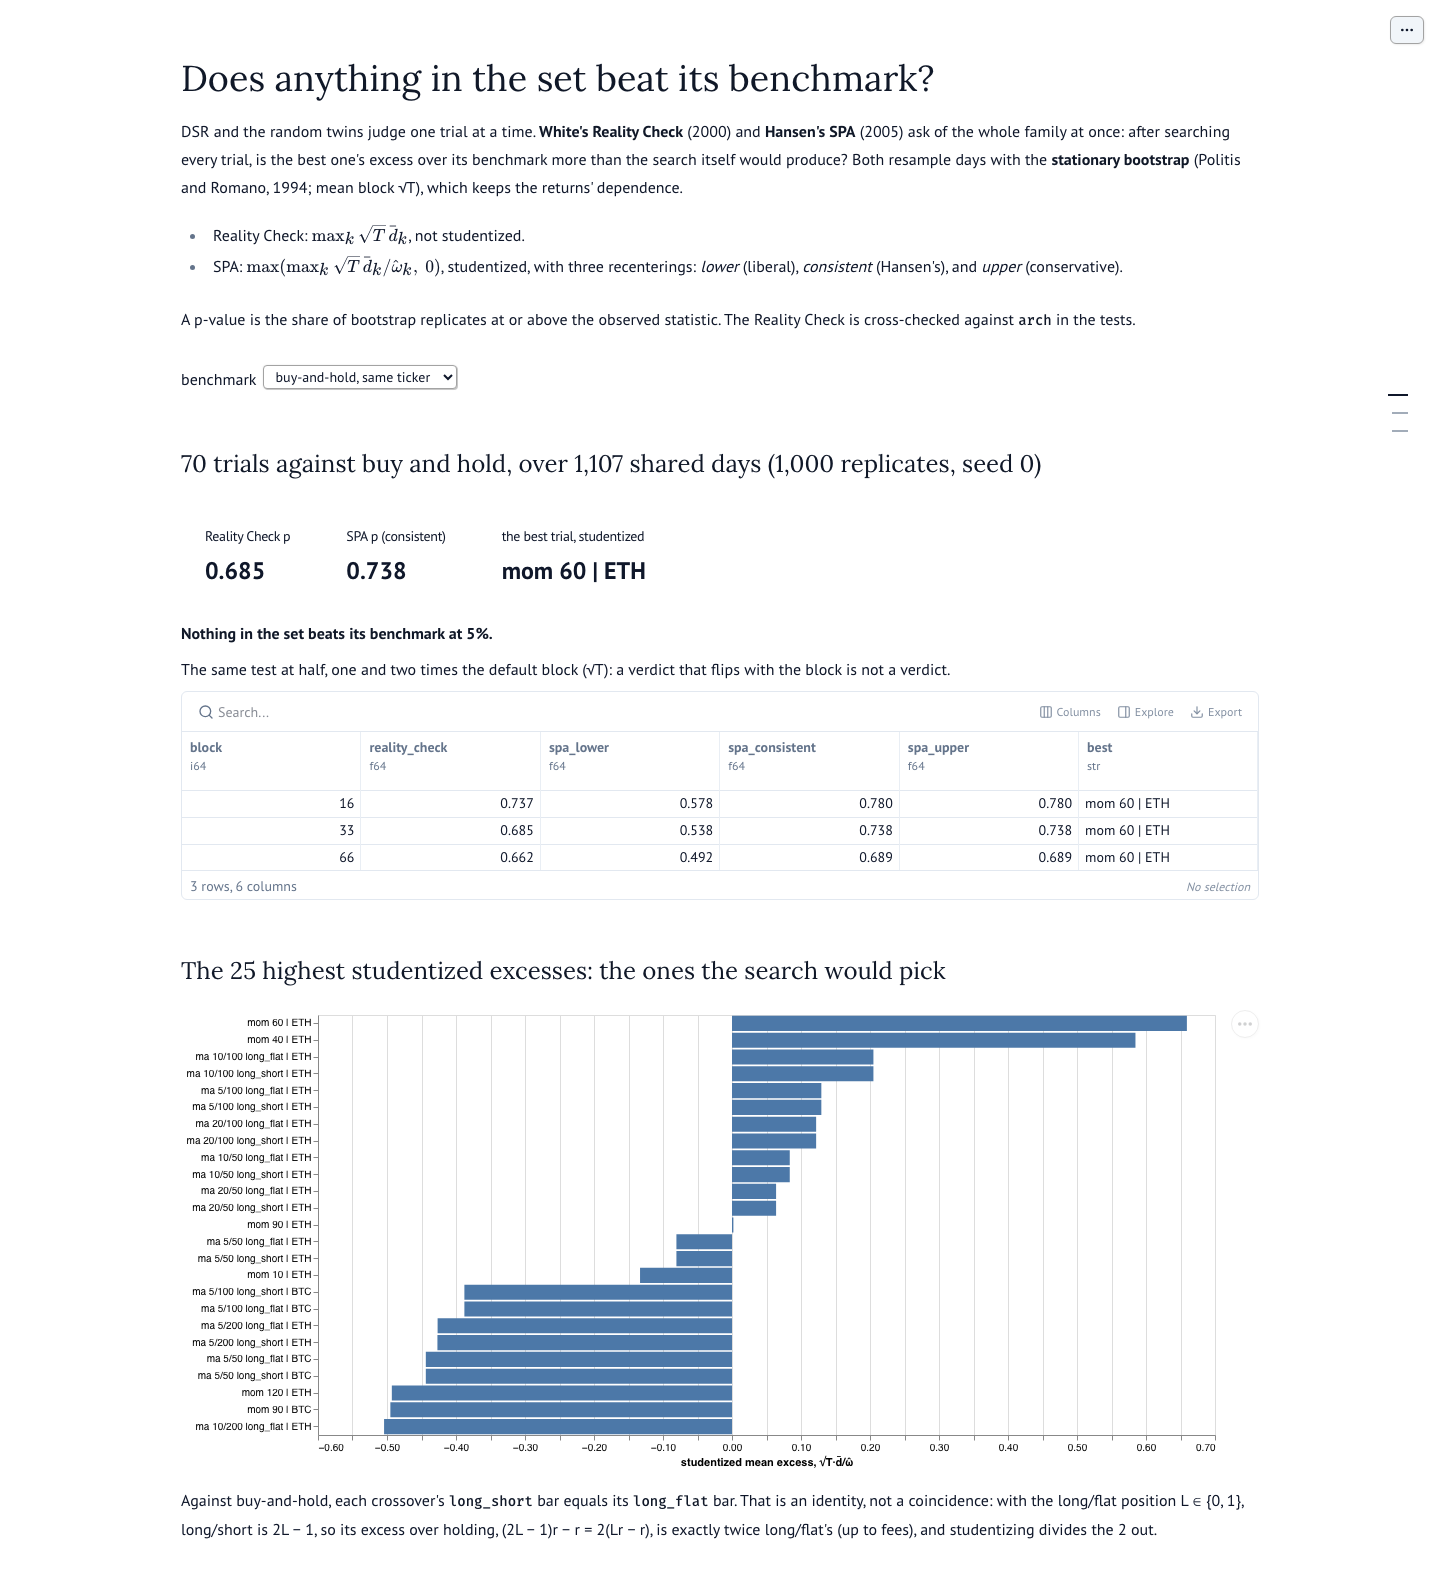
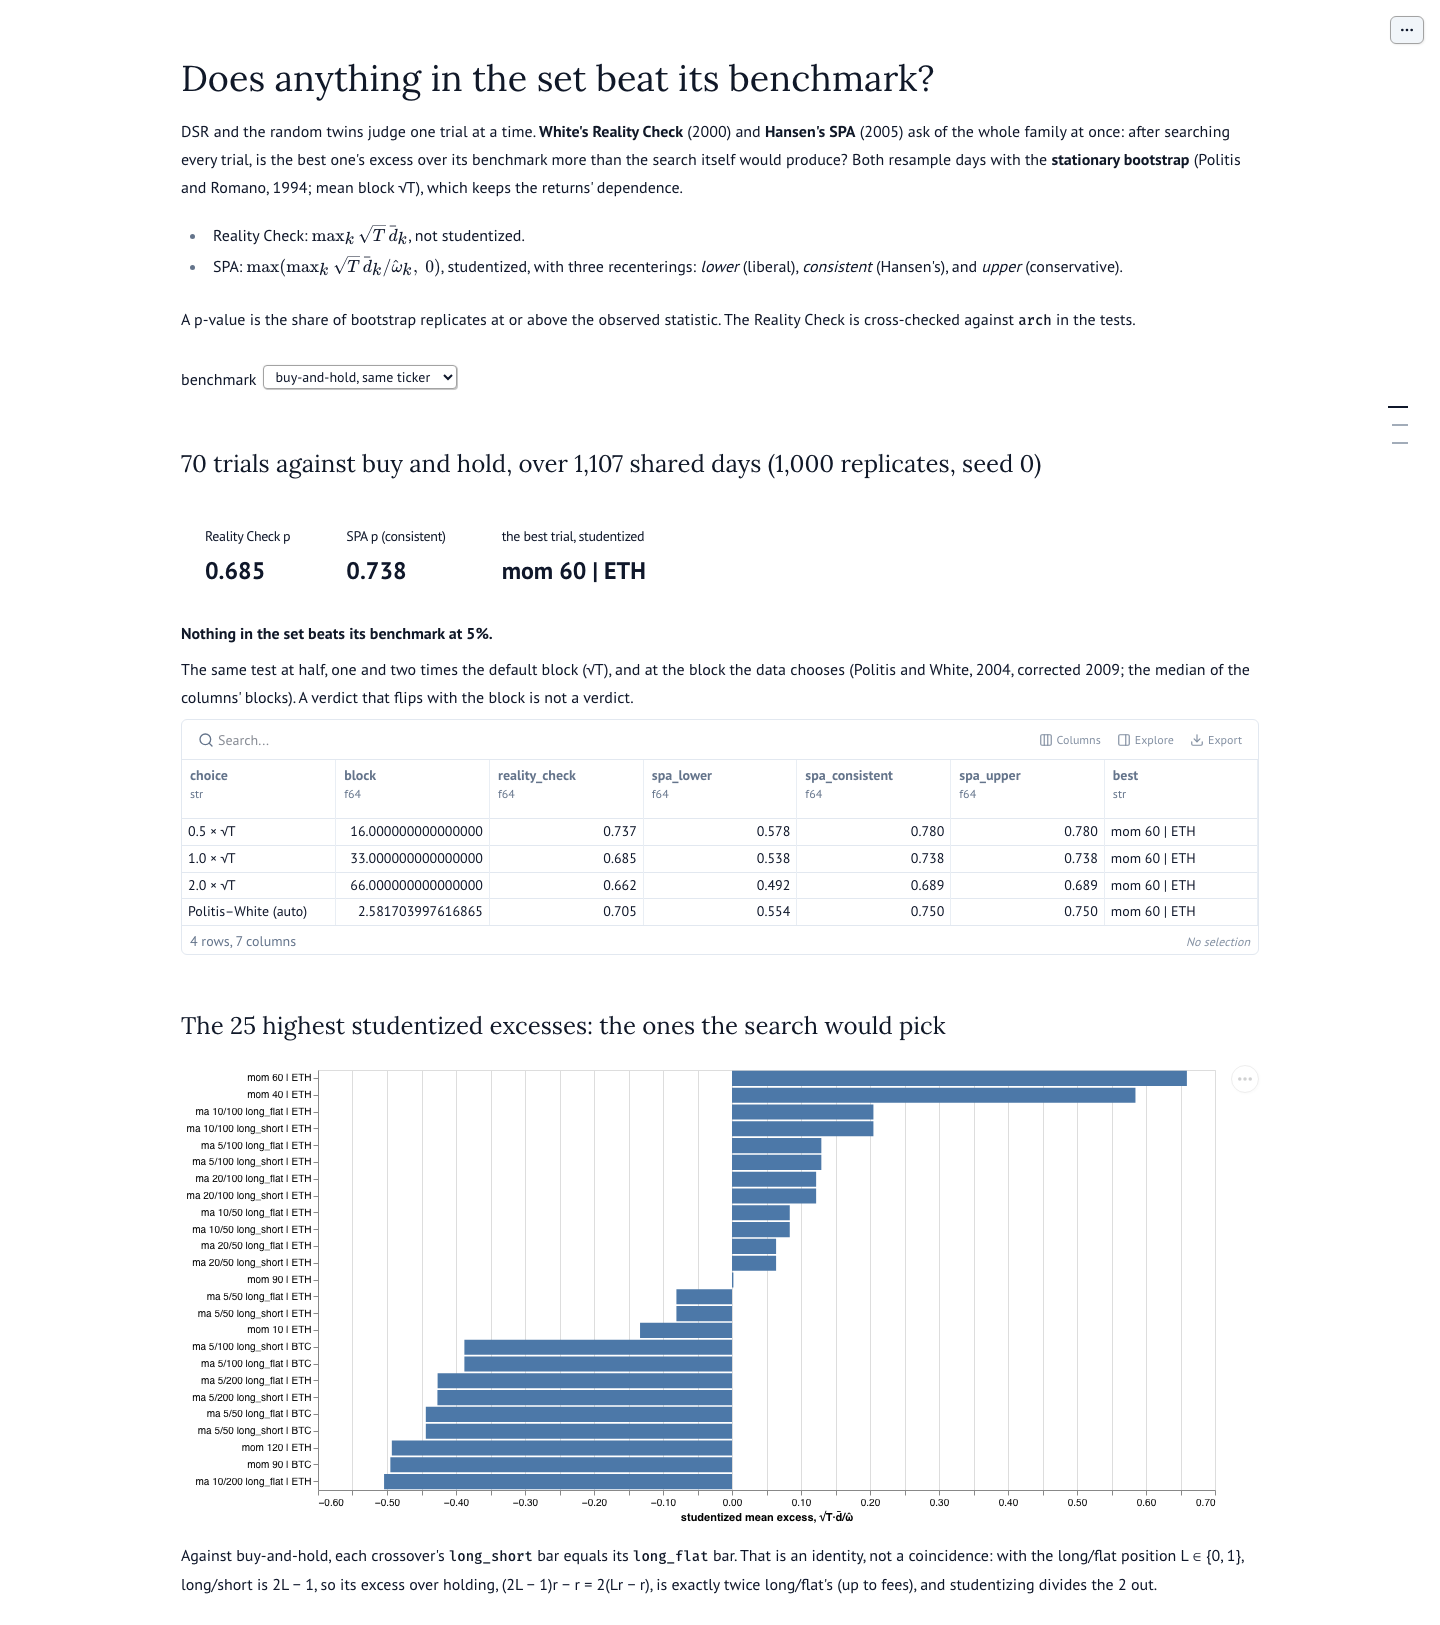
the bootstrap block is chosen from the data: Politis and White, as corrected
stats.optimal_block estimates the stationary bootstrap's mean block from
the series' own autocorrelation. It is Politis and White (2004), with
Patton, Politis and White's (2009) corrected constants, written step for
step from arch 8.0.0's optimal_block_length and cross-checked against it
to within 1e-6 on three AR(1) series. reality_check(block="auto") uses
the median of the columns' blocks. The default stays sqrt(T), so earlier
results reproduce.

On the record, the automatic block is short: 2.6 days against
buy-and-hold and 1.5 against cash, because daily excess returns are
close to white noise, and sqrt(T) = 33 was far longer than needed. The
verdict does not move: RC p = 0.71 and 0.27, SPA p = 0.75 and 0.22.
notebooks/whole_set.py adds the automatic row, and its screenshot is
refreshed.

180 tests pass. A plain lag window gives a block of 18.0 and breaks the
agreement with arch.

diff --git a/src/galata_research/stats.py b/src/galata_research/stats.py
@@ -207,7 +207,7 @@ def stationary_bootstrap_indices(n: int, block: float, rng) -> list[int]:
     return out
 
 
-def reality_check(excess: pl.DataFrame, *, reps: int = 1000, block: float | None = None, seed: int = 0) -> dict:
+def reality_check(excess: pl.DataFrame, *, reps: int = 1000, block: float | str | None = None, seed: int = 0) -> dict:
     """White's Reality Check (2000) and Hansen's SPA (2005): does any column beat its benchmark?
 
     `excess` is T × K per-period returns minus each column's benchmark
@@ -220,7 +220,8 @@ def reality_check(excess: pl.DataFrame, *, reps: int = 1000, block: float | None
       −√(ω̂²/T · 2 log log T), else 0) or `upper` (d̄). Then
       p_lower ≤ p_consistent ≤ p_upper.
     ω̂² is the stationary-bootstrap variance of √T d̄ (Politis and Romano),
-    as in arch. `block` defaults to √T, as in arch. p-values count
+    as in arch. `block` defaults to √T, as in arch; `"auto"` takes the median
+    of the columns' Politis–White blocks (`optimal_block`). p-values count
     replicates at or above the statistic.
     """
     import random
@@ -237,6 +238,10 @@ def reality_check(excess: pl.DataFrame, *, reps: int = 1000, block: float | None
     if t < 10:
         raise Refused(f"{t} rows are too few to bootstrap")
     frame = frame.select(pl.all().cast(pl.Float64))
+    if block == "auto":
+        # One block for every column: the median of their own optimal blocks.
+        blocks = sorted(optimal_block(frame[c]) for c in columns)
+        block = max(1.0, blocks[len(blocks) // 2])
     block = block if block is not None else int(sqrt(t))
     means = frame.mean().row(0)
 
@@ -285,3 +290,52 @@ def reality_check(excess: pl.DataFrame, *, reps: int = 1000, block: float | None
         "seed": seed,
         "rows": t,
     }
+
+
+def optimal_block(series) -> float:
+    """Politis and White's (2004) optimal mean block for the stationary bootstrap, as corrected in 2009.
+
+    Patton, Politis and White (2009) corrected the constants after Nordman
+    (2008). This follows arch 8.0.0's `optimal_block_length` (its
+    `stationary` column) step for step:
+    - find m̂, the first run of `max(5, ⌊log₁₀ n⌋)` autocorrelations under
+      `2√(log₁₀ n / n)`, and set `M = 2m̂`;
+    - with a flat-top lag window, take `Ĝ = Σ 2λ(k/M)·k·γ̂(k)` and the
+      long-run variance `ĝ = γ̂(0) + Σ 2λ(k/M)·γ̂(k)`;
+    - `b = (2Ĝ² / (2ĝ²))^{1/3} n^{1/3}`, capped at `min(3√n, n/3)`.
+    """
+    from math import ceil, log10
+
+    x = _series(series).to_list()
+    n = len(x)
+    if n < 10:
+        raise Refused(f"{n} points are too few to choose a block")
+    mean = sum(x) / n
+    eps = [v - mean for v in x]
+    b_max = ceil(min(3 * sqrt(n), n / 3))
+    kn = max(5, int(log10(n)))
+    m_max = int(ceil(sqrt(n))) + kn
+    cv = 2 * sqrt(log10(n) / n)
+
+    def dot(a, b):
+        return sum(p * q for p, q in zip(a, b))
+
+    acv, acorr, opt_m = [], [], None
+    for i in range(m_max + 1):
+        v1, v2 = dot(eps[i + 1 :], eps[i + 1 :]), dot(eps[: n - (i + 1)], eps[: n - (i + 1)])
+        cross = dot(eps[i:], eps[: n - i])
+        acv.append(cross / n)
+        acorr.append(abs(cross) / sqrt(v1 * v2) if v1 * v2 > 0 else 0.0)
+        if i >= kn and opt_m is None and all(a < cv for a in acorr[i - kn : i]):
+            opt_m = i - kn
+    m = min(2 * max(opt_m, 1) if opt_m is not None else m_max, m_max)
+
+    g, long_run = 0.0, acv[0]
+    for k in range(1, m + 1):
+        lam = 1.0 if k / m <= 0.5 else 2 * (1 - k / m)
+        g += 2 * lam * k * acv[k]
+        long_run += 2 * lam * acv[k]
+    if long_run <= 0:
+        return 1.0
+    b = ((2 * g**2) / (2 * long_run**2)) ** (1 / 3) * n ** (1 / 3)
+    return min(b, b_max)

diff --git a/notebooks/whole_set.py b/notebooks/whole_set.py
@@ -67,10 +67,9 @@ def _(benchmark, mo, pl, stats, studies, trials):
     excess = studies.excess(trials, benchmark.value)
     root = int(excess.height**0.5)
     runs = []
-    for mult in (0.5, 1, 2):
-        block = max(1, int(mult * root))
+    for block in (max(1, int(0.5 * root)), root, 2 * root, "auto"):
         r = stats.reality_check(excess, reps=1000, block=block, seed=0)
-        runs.append({"block": block, "reality_check": r["reality_check"], **{f"spa_{k}": v for k, v in r["spa"].items()}, "best": r["best"]})
+        runs.append({"choice": "Politis–White (auto)" if block == "auto" else f"{block / root:.1f} × √T", "block": float(r["block"]), "reality_check": r["reality_check"], **{f"spa_{k}": v for k, v in r["spa"].items()}, "best": r["best"]})
     table = pl.DataFrame(runs)
     main = stats.reality_check(excess, reps=1000, seed=0)
     worst = max(main["spa"]["consistent"], main["reality_check"])
@@ -86,7 +85,7 @@ def _(benchmark, mo, pl, stats, studies, trials):
                 justify="start",
             ),
             mo.md("**Nothing in the set beats its benchmark at 5%.**" if worst > 0.05 else "**At least one trial beats its benchmark at 5%.**"),
-            mo.md("The same test at half, one and two times the default block (√T): a verdict that flips with the block is not a verdict."),
+            mo.md("The same test at half, one and two times the default block (√T), and at the block the data chooses (Politis and White, 2004, corrected 2009; the median of the columns' blocks). A verdict that flips with the block is not a verdict."),
             table,
         ]
     )

diff --git a/tests/block.py b/tests/block.py
@@ -1,0 +1,34 @@
+import random
+
+import polars as pl
+import pytest
+
+from galata_research import stats
+
+
+def _ar(phi, n, seed):
+    rng, x, out = random.Random(seed), 0.0, []
+    for _ in range(n):
+        x = phi * x + rng.gauss(0, 1)
+        out.append(x)
+    return out
+
+
+def the_block_agrees_with_arch():
+    arch = pytest.importorskip("arch.bootstrap")
+    np = pytest.importorskip("numpy")
+    for phi, seed in [(0.6, 1), (0.2, 2), (0.9, 3)]:
+        series = _ar(phi, 2000, seed)
+        theirs = float(arch.optimal_block_length(np.asarray(series))["stationary"].iloc[0])
+        assert stats.optimal_block(series) == pytest.approx(theirs, abs=1e-6)
+
+
+def the_persistence_lengthens_the_block():
+    assert stats.optimal_block(_ar(0.8, 2000, 4)) > stats.optimal_block(_ar(0.1, 2000, 4))
+
+
+def the_auto_block_is_reported():
+    frame = pl.DataFrame({f"c{k}": _ar(0.3 + 0.2 * k, 600, k) for k in range(3)})
+    got = stats.reality_check(frame, reps=50, block="auto")
+    blocks = sorted(stats.optimal_block(frame[c]) for c in frame.columns)
+    assert got["block"] == pytest.approx(max(1.0, blocks[1]))

diff --git a/README.md b/README.md
@@ -233,7 +233,7 @@ Over the busiest BTC minute, 3,426 trades matched with a median staleness of
 
 ## Studies
 
-`gr.stats` (Sharpe, PSR, the expected maximum Sharpe, DSR, PBO, the permutation percentile, the stationary bootstrap, the Reality Check and SPA),
+`gr.stats` (Sharpe, PSR, the expected maximum Sharpe, DSR, PBO, the permutation percentile, the stationary bootstrap with a Politis–White block, the Reality Check and SPA),
 `gr.backtest.returns` (next-bar, fees on turnover, holes not spanned,
 `modelled` on every row) and `gr.studies` (trial families that return every
 trial, so N is the true N) back these notebooks:
@@ -335,6 +335,7 @@ uv run marimo check notebooks/*.py     # every notebook, as CI runs it
 | A pre-registered test of a published strategy | done: not supported |
 | A random-timing baseline, matched on exposure, for every study | done: none beats its twins at 5% |
 | White's Reality Check and Hansen's SPA over the whole set | done: nothing beats buy-and-hold or cash at 5% |
+| The bootstrap block chosen from the data (Politis–White, corrected 2009) | done: 1.5–2.6 days; the verdict does not move |
 | The bar-permutation null (Masters, mcpt), whole search re-run | done: the real best is below the permuted median |
 | My fills, funding payments and transfers | waiting for the account to trade; the ledger records them since 2026-09-25 |
 | Charging funding in backtests | blocked on a deeper settled-funding walk in galata-datawatch |
